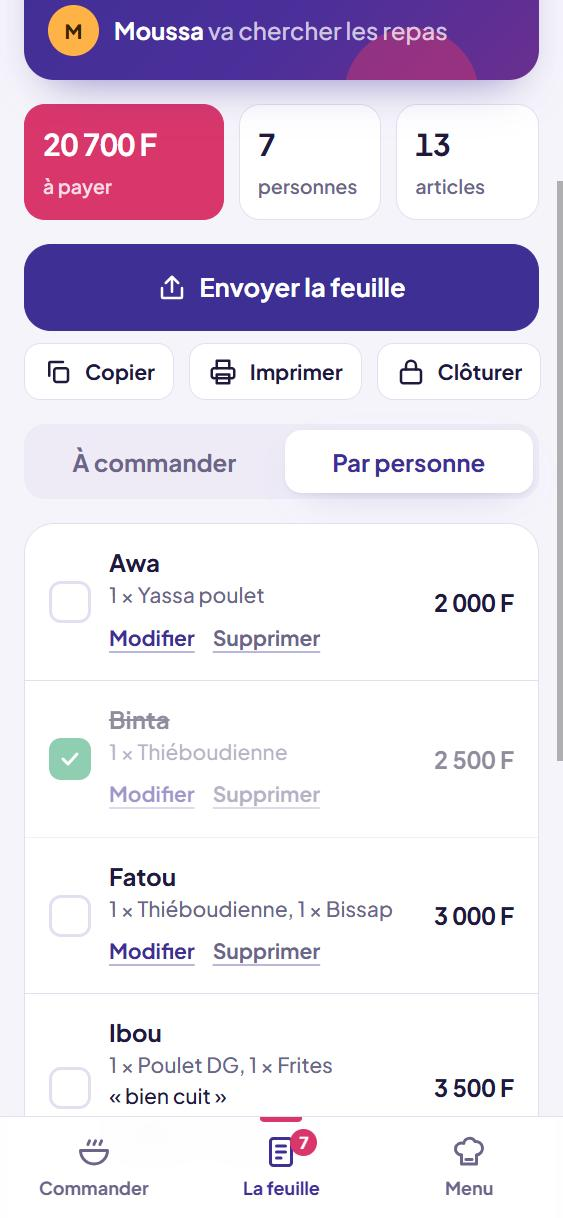
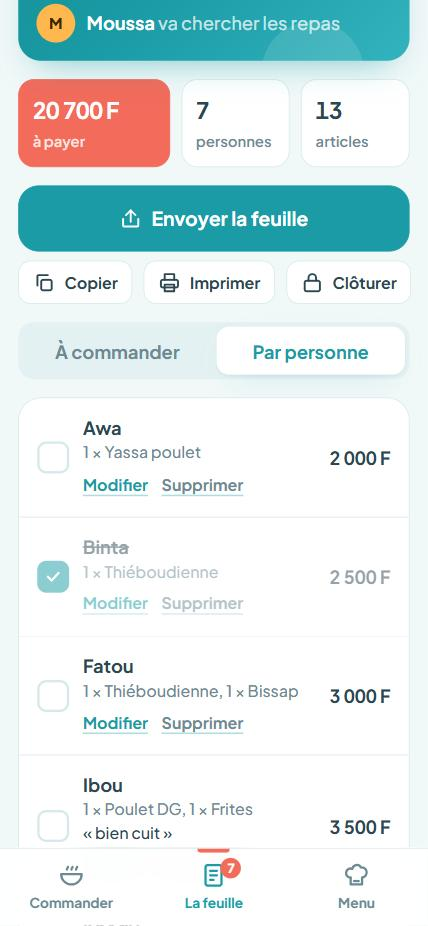
Palette « Lagon » : turquoise ciel à la place du violet
- Bleu lagon (turquoise ciel) pour les actions, ni trop sombre ni noir.
- Corail pour les quantités et le total, mangue gardée pour « J'y vais ».
- Fond blanc d'eau, textes ardoise doux au lieu de quasi-noir, titres
  un peu plus légers.
- Carte du jour en ticket turquoise, coche « servi » et confirmation
  alignées sur la couleur principale.
- Manifeste, icônes et couleur de thème mis à jour ; captures refaites.

diff --git a/app/globals.css b/app/globals.css
@@ -1,28 +1,28 @@
-/* Identité « Bazin & Bissap » — un seul thème, clair.
-   Indigo du bazin teint pour les actions, rose hibiscus (bissap) pour les
-   quantités, mangue pour l'appel « J'y vais », fond blanc à peine lilas.
-   La carte du jour est un ticket indigo, signature visuelle de l'app.
+/* Identité « Lagon » — un seul thème, clair.
+   Bleu lagon (turquoise ciel) pour les actions, corail pour les
+   quantités, mangue pour « J'y vais », fond blanc d'eau, textes ardoise doux.
+   La carte du jour est un ticket turquoise, signature visuelle de l'app.
    Mobile d'abord : une colonne, grandes cibles, action principale en bas. */
 :root {
-  --bg: #f6f4fb;
+  --bg: #f1f8f8;
   --card: #ffffff;
-  --sunken: #eeebf7;
-  --ink: #1f1a3d;
-  --muted: #6a6589;
-  --line: #e3dff0;
-  --brand: #3d2f94;        /* indigo bazin */
-  --brand-strong: #2d2273;
+  --sunken: #e4f1f2;
+  --ink: #2b4752;
+  --muted: #6c8a93;
+  --line: #d5e8ea;
+  --brand: #1a9ba5;        /* bleu lagon */
+  --brand-strong: #138590;
   --brand-ink: #ffffff;
-  --brand-soft: #ebe8fb;
-  --pop: #d9366b;          /* hibiscus / bissap */
+  --brand-soft: #dcf2f3;
+  --pop: #f26b5b;          /* corail */
   --pop-ink: #ffffff;
-  --pop-soft: #fde6ee;
-  --sun: #ffb347;          /* mangue */
-  --sun-ink: #3a2300;
+  --pop-soft: #ffe9e5;
+  --sun: #ffb84d;          /* mangue */
+  --sun-ink: #3d2600;
   --sun-soft: #fff1dc;
-  --danger: #c2283c;
+  --danger: #d6453d;
   --danger-soft: #fde7ea;
-  --shadow: 0 1px 2px rgb(31 26 61 / 6%), 0 10px 28px -14px rgb(61 47 148 / 28%);
+  --shadow: 0 1px 2px rgb(43 71 82 / 6%), 0 10px 28px -14px rgb(26 155 165 / 26%);
   --radius: 20px;
   --radius-sm: 14px;
   --nav-h: 68px;
@@ -68,7 +68,7 @@ a { color: inherit; }
 .hello { margin: 18px 0 16px; }
 .eyebrow { margin: 0; color: var(--muted); font-weight: 600; font-size: 14px; }
 .eyebrow::first-letter, .cap::first-letter { text-transform: uppercase; }
-.h1 { margin: 2px 0 0; font-size: clamp(26px, 7vw, 32px); line-height: 1.1; letter-spacing: -0.03em; font-weight: 800; text-wrap: balance; }
+.h1 { margin: 2px 0 0; font-size: clamp(26px, 7vw, 32px); line-height: 1.15; letter-spacing: -0.02em; font-weight: 700; text-wrap: balance; }
 .h1 em { font-style: normal; color: var(--pop); }
 .h2 { margin: 0; font-size: 18px; letter-spacing: -0.01em; font-weight: 800; }
 .muted { color: var(--muted); }
@@ -124,20 +124,20 @@ button.chip:hover { border-color: var(--brand); }
 
 .banner { border-radius: var(--radius-sm); padding: 12px 14px; font-weight: 600; font-size: 14px; background: var(--sun-soft); color: #7a4800; }
 
-/* ---------- status card: the indigo "ticket" ---------- */
+/* ---------- status card: the turquoise "ticket" ---------- */
 .status {
   display: grid; gap: 14px; position: relative; overflow: hidden;
-  background: linear-gradient(135deg, var(--brand) 0%, #4b2f9a 60%, #6a2f8f 100%);
-  border: 0; color: #fff; box-shadow: 0 14px 30px -16px rgb(61 47 148 / 65%);
+  background: linear-gradient(135deg, #168f99 0%, var(--brand) 45%, #33b3bd 100%);
+  border: 0; color: #fff; box-shadow: 0 14px 30px -16px rgb(26 155 165 / 60%);
 }
 .status::before, .status::after { content: ""; position: absolute; border-radius: 50%; pointer-events: none; }
 .status::before { width: 160px; height: 160px; right: -50px; top: -70px; background: rgb(255 255 255 / 7%); }
-.status::after { width: 90px; height: 90px; right: 40px; bottom: -55px; background: color-mix(in srgb, var(--pop) 45%, transparent); }
+.status::after { width: 90px; height: 90px; right: 40px; bottom: -55px; background: rgb(255 255 255 / 12%); }
 .status > * { position: relative; z-index: 1; }
 .status .muted { color: rgb(255 255 255 / 72%); }
-.status .pill-open { background: rgb(255 255 255 / 14%); color: #b9f5d3; }
+.status .pill-open { background: rgb(255 255 255 / 20%); color: #fff; }
 .status .pill-late { background: rgb(255 179 71 / 22%); color: var(--sun); }
-.status .pill-closed { background: rgb(217 54 107 / 30%); color: #ffd0de; }
+.status .pill-closed { background: rgb(242 107 91 / 35%); color: #fff; }
 .status .btn-ghost { color: rgb(255 255 255 / 80%); }
 .status-top { display: flex; justify-content: space-between; gap: 12px; align-items: flex-start; }
 .resto { font-size: 21px; font-weight: 800; letter-spacing: -0.02em; margin: 6px 0 0; }
@@ -155,10 +155,10 @@ button.chip:hover { border-color: var(--brand); }
 }
 .dish:hover { border-color: color-mix(in srgb, var(--brand) 30%, var(--line)); }
 .dish:active { transform: scale(0.99); }
-.dish.on { border-color: var(--pop); background: linear-gradient(90deg, var(--pop-soft), var(--card) 75%); box-shadow: 0 8px 20px -14px rgb(217 54 107 / 60%); }
+.dish.on { border-color: var(--pop); background: linear-gradient(90deg, var(--pop-soft), var(--card) 75%); box-shadow: 0 8px 20px -14px rgb(242 107 91 / 55%); }
 .dish[aria-disabled="true"] { opacity: .6; cursor: default; }
 .dish-main { flex: 1; min-width: 0; display: flex; flex-direction: column; gap: 2px; }
-.dish-name { font-weight: 700; font-size: 17px; line-height: 1.25; }
+.dish-name { font-weight: 600; font-size: 17px; line-height: 1.25; }
 .dish-price { color: var(--muted); font-weight: 600; font-size: 15px; }
 .qty { display: flex; align-items: center; gap: 6px; flex: none; }
 .qty-btn {
@@ -177,12 +177,12 @@ button.chip:hover { border-color: var(--brand); }
   z-index: 20;
 }
 .dock-inner { max-width: 640px; margin: 0 auto; }
-.dock .btn-lg { box-shadow: 0 12px 28px -12px rgb(61 47 148 / 70%); }
+.dock .btn-lg { box-shadow: 0 12px 28px -12px rgb(26 155 165 / 65%); }
 .done {
   display: flex; align-items: center; gap: 12px; padding: 12px 14px; border-radius: 18px;
-  background: var(--card); border: 1.5px solid #9fe2bf; box-shadow: var(--shadow);
+  background: var(--card); border: 1.5px solid #9ed8dc; box-shadow: var(--shadow);
 }
-.done-icon { width: 36px; height: 36px; border-radius: 50%; background: #1f9d63; color: #fff; display: grid; place-items: center; flex: none; }
+.done-icon { width: 36px; height: 36px; border-radius: 50%; background: var(--brand); color: #fff; display: grid; place-items: center; flex: none; }
 .done-text { flex: 1; min-width: 0; }
 .done-text b { display: block; }
 
@@ -222,7 +222,7 @@ button.chip:hover { border-color: var(--brand); }
 .li.handed { opacity: .5; }
 .li.handed .li-main b { text-decoration: line-through; }
 .check { width: 28px; height: 28px; border-radius: 8px; border: 2px solid var(--line); background: var(--card); display: grid; place-items: center; flex: none; color: #fff; padding: 0; }
-.check[aria-checked="true"] { background: #1f9d63; border-color: #1f9d63; }
+.check[aria-checked="true"] { background: var(--brand); border-color: var(--brand); }
 .actions-grid { display: grid; grid-template-columns: 1fr 1fr; gap: 10px; }
 
 /* ---------- gestion ---------- */
@@ -237,7 +237,7 @@ dialog.sheet {
   border: 0; padding: 0; margin: auto auto 0; width: 100%; max-width: 640px; max-height: 92dvh;
   border-radius: 24px 24px 0 0; background: var(--bg); color: var(--ink);
 }
-dialog.sheet::backdrop { background: rgb(31 26 61 / 45%); }
+dialog.sheet::backdrop { background: rgb(43 71 82 / 40%); }
 .sheet-body { padding: 20px max(16px, env(safe-area-inset-right)) calc(20px + env(safe-area-inset-bottom)) max(16px, env(safe-area-inset-left)); display: flex; flex-direction: column; gap: 14px; }
 .sheet-grip { width: 40px; height: 5px; border-radius: 3px; background: var(--line); margin: 0 auto 4px; }
 @media (min-width: 700px) { dialog.sheet { margin: auto; border-radius: 24px; } }

diff --git a/app/icons/[variant]/route.tsx b/app/icons/[variant]/route.tsx
@@ -24,9 +24,9 @@ export async function GET(_req: Request, { params }: { params: Promise<{ variant
   const food = Math.round(plate * 0.46);
   return new ImageResponse(
     (
-      <div style={{ width: s, height: s, display: "flex", alignItems: "center", justifyContent: "center", background: "#3d2f94", borderRadius: Math.round(s * v.radius) }}>
-        <div style={{ width: plate, height: plate, borderRadius: plate, background: "#ffffff", display: "flex", alignItems: "center", justifyContent: "center", boxShadow: `inset 0 0 0 ${Math.round(plate * 0.08)}px #fde6ee` }}>
-          <div style={{ width: food, height: food, borderRadius: food, background: "#ffb347" }} />
+      <div style={{ width: s, height: s, display: "flex", alignItems: "center", justifyContent: "center", background: "#1a9ba5", borderRadius: Math.round(s * v.radius) }}>
+        <div style={{ width: plate, height: plate, borderRadius: plate, background: "#ffffff", display: "flex", alignItems: "center", justifyContent: "center", boxShadow: `inset 0 0 0 ${Math.round(plate * 0.08)}px #ffe9e5` }}>
+          <div style={{ width: food, height: food, borderRadius: food, background: "#ffb84d" }} />
         </div>
       </div>
     ),

diff --git a/app/manifest.ts b/app/manifest.ts
@@ -11,8 +11,8 @@ export default function manifest(): MetadataRoute.Manifest {
     scope: "/",
     display: "standalone",
     orientation: "portrait",
-    background_color: "#f6f4fb",
-    theme_color: "#3d2f94",
+    background_color: "#f1f8f8",
+    theme_color: "#1a9ba5",
     categories: ["food", "productivity"],
     icons: [
       { src: "/icons/192", sizes: "192x192", type: "image/png", purpose: "any" },

diff --git a/app/layout.tsx b/app/layout.tsx
@@ -16,7 +16,7 @@ export const viewport: Viewport = {
   width: "device-width",
   initialScale: 1,
   viewportFit: "cover",
-  themeColor: "#f6f4fb",
+  themeColor: "#f1f8f8",
   colorScheme: "light",
 };
 

diff --git a/README.md b/README.md
@@ -38,9 +38,10 @@ chacun choisit sur son téléphone, et la personne qui va au restaurant récupè
 
 Les écrans se mettent à jour tout seuls (toutes les 5 secondes quand l'app est ouverte).
 
-**Identité visuelle « Bazin & Bissap »** : un seul thème clair. Indigo du bazin teint pour les actions,
-rose hibiscus pour les quantités et le total, mangue pour « J'y vais », fond blanc à peine lilas.
-La carte du jour (restaurant, heure limite, qui y va) est un ticket indigo reconnaissable au premier coup d'œil.
+**Identité visuelle « Lagon »** : un seul thème clair. Bleu lagon (turquoise ciel) pour les actions,
+corail pour les quantités et le total, mangue pour « J'y vais », fond blanc d'eau et textes ardoise doux
+plutôt que noirs. La carte du jour (restaurant, heure limite, qui y va) est un ticket turquoise
+reconnaissable au premier coup d'œil.
 
 ## Stack
 
